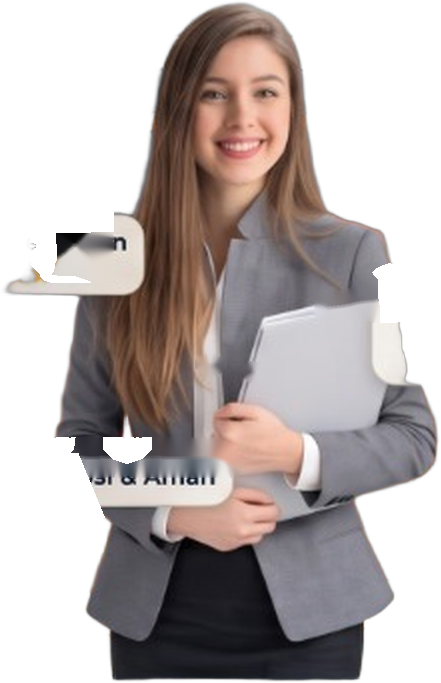
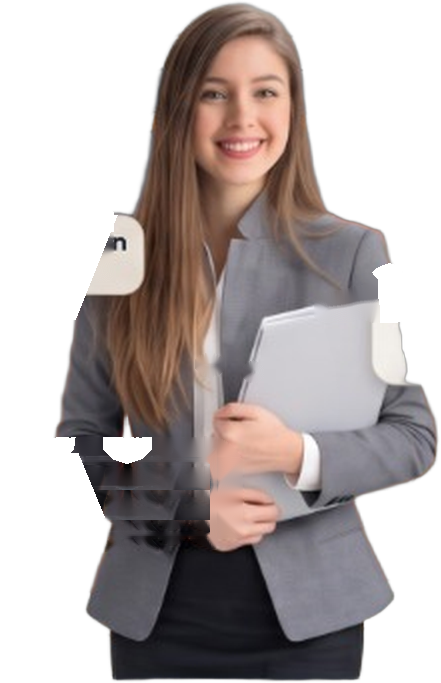
ubah tampilan landing pages full size

Changed region(s): [[0.1769, 0.6457, 0.5306, 0.7994], [0.0, 0.3382, 0.2653, 0.4612]]

diff --git a/resources/views/home/index.blade.php b/resources/views/home/index.blade.php
@@ -12,17 +12,27 @@
             position: relative;
             overflow: hidden;
             background-color: #F5EEE4;
-            padding-top: 24px;
-            padding-bottom: 0;
+            min-height: 100vh;
+            min-height: 100dvh;
+            display: flex;
+            flex-direction: column;
+            justify-content: space-between;
             font-family: 'Plus Jakarta Sans', system-ui, -apple-system, sans-serif;
+            box-sizing: border-box;
         }
 
         .siladata-hero-container {
             position: relative;
             z-index: 10;
-            max-width: 1180px;
+            max-width: 1240px;
+            width: 100%;
             margin: 0 auto;
-            padding: 0 20px;
+            padding: 24px 24px 0 24px;
+            flex: 1 1 auto;
+            display: flex;
+            flex-direction: column;
+            justify-content: space-between;
+            box-sizing: border-box;
         }
 
         /* Floating Pill Navbar */
@@ -104,8 +114,9 @@
             flex-direction: row;
             align-items: flex-end;
             justify-content: space-between;
-            padding-top: 24px;
+            padding-top: 16px;
             width: 100%;
+            flex: 1 1 auto;
         }
 
         .siladata-hero-col-left {
@@ -113,8 +124,8 @@
             flex: 0 0 52%;
             max-width: 52%;
             align-self: center;
-            padding-top: 20px;
-            padding-bottom: 44px;
+            padding-top: 12px;
+            padding-bottom: 32px;
             position: relative;
             z-index: 20;
         }
@@ -131,54 +142,39 @@
             z-index: 10;
         }
 
-        /* Badge */
-        .siladata-badge {
-            display: inline-flex;
-            align-items: center;
-            gap: 8px;
-            border-radius: 9999px;
-            border: 1.5px solid #D8986B;
-            background-color: #F8ECE1;
-            padding: 6px 18px;
-            font-size: 13.5px;
-            font-weight: 600;
-            color: #9A4E23;
-            margin-bottom: 18px;
-        }
-
         /* Headline */
         .siladata-h1 {
-            font-size: 34px;
+            font-size: 38px;
             font-weight: 900;
-            line-height: 1.14;
-            letter-spacing: -0.025em;
+            line-height: 1.12;
+            letter-spacing: -0.03em;
             color: #111C2E;
             margin: 0;
         }
 
         .siladata-h1-accent {
             display: block;
-            margin-top: 4px;
+            margin-top: 6px;
             color: #E87A36;
         }
 
         /* Description */
         .siladata-desc {
-            margin-top: 18px;
-            font-size: 16px;
-            line-height: 1.6;
-            color: #232B38;
+            margin-top: 20px;
+            font-size: 16.5px;
+            line-height: 1.62;
+            color: #2D3748;
             font-weight: 400;
-            max-width: 480px;
+            max-width: 490px;
         }
 
         /* CTA Buttons */
         .siladata-cta-group {
-            margin-top: 28px;
+            margin-top: 30px;
             display: flex;
             flex-wrap: wrap;
             align-items: center;
-            gap: 14px;
+            gap: 16px;
         }
 
         .siladata-btn-dark {
@@ -413,14 +409,14 @@
         /* Left Floating Card: Rating Kepuasan */
         .siladata-card-rating {
             position: absolute;
-            left: -4px;
-            top: 165px;
+            left: 20px;
+            top: 148px;
             z-index: 20;
-            background: rgba(255, 255, 255, 0.97);
+            background: rgba(255, 255, 255, 0.98);
             border-radius: 14px;
-            padding: 8px 14px 9px 14px;
+            padding: 8.5px 14px 9.5px 14px;
             border: 1px solid rgba(255, 255, 255, 0.95);
-            box-shadow: 0 12px 28px -4px rgba(17, 28, 46, 0.12), 0 4px 10px -2px rgba(17, 28, 46, 0.05);
+            box-shadow: 0 14px 30px -4px rgba(17, 28, 46, 0.12), 0 4px 10px -2px rgba(17, 28, 46, 0.05);
             backdrop-filter: blur(8px);
             -webkit-backdrop-filter: blur(8px);
         }
@@ -436,14 +432,14 @@
         /* Left Floating Pill: Data Terenkripsi & Aman */
         .siladata-card-lock {
             position: absolute;
-            left: 10px;
-            bottom: 72px;
+            left: 45px;
+            bottom: 84px;
             z-index: 20;
-            background: rgba(255, 255, 255, 0.97);
+            background: rgba(255, 255, 255, 0.98);
             border-radius: 9999px;
-            padding: 6.5px 16px 6.5px 11px;
+            padding: 7px 16px 7px 12px;
             border: 1px solid rgba(255, 255, 255, 0.95);
-            box-shadow: 0 10px 24px -4px rgba(17, 28, 46, 0.12);
+            box-shadow: 0 12px 26px -4px rgba(17, 28, 46, 0.14);
             display: inline-flex;
             align-items: center;
             gap: 7.5px;
@@ -461,14 +457,14 @@
         /* Right Floating Card: 1.300+ Kampus */
         .siladata-card-kampus {
             position: absolute;
-            right: 4px;
-            bottom: 112px;
+            right: 12px;
+            bottom: 120px;
             z-index: 20;
-            background: rgba(255, 255, 255, 0.97);
+            background: rgba(255, 255, 255, 0.98);
             border-radius: 14px;
-            padding: 8px 13px 9px 13px;
+            padding: 8.5px 14px 9.5px 14px;
             border: 1px solid rgba(255, 255, 255, 0.95);
-            box-shadow: 0 12px 28px -4px rgba(17, 28, 46, 0.12), 0 4px 10px -2px rgba(17, 28, 46, 0.05);
+            box-shadow: 0 14px 30px -4px rgba(17, 28, 46, 0.12), 0 4px 10px -2px rgba(17, 28, 46, 0.05);
             backdrop-filter: blur(8px);
             -webkit-backdrop-filter: blur(8px);
         }
@@ -486,8 +482,9 @@
             position: relative;
             z-index: 25;
             width: 100%;
-            height: 26px;
+            height: 28px;
             background-color: #111C2E;
+            flex-shrink: 0;
         }
 
         /* Subtle Gentle Floating Animation */
@@ -522,7 +519,7 @@
             .siladata-hero-row {
                 flex-direction: row;
                 align-items: flex-end;
-                padding-top: 24px;
+                padding-top: 20px;
             }
             .siladata-hero-col-left {
                 width: 53%;
@@ -543,11 +540,15 @@
         }
 
         @media (min-width: 1024px) {
+            .siladata-hero-section {
+                height: 100vh;
+                height: 100dvh;
+            }
             .siladata-hero-col-left {
                 width: 52%;
                 flex: 0 0 52%;
-                padding-top: 28px;
-                padding-bottom: 50px;
+                padding-top: 16px;
+                padding-bottom: 36px;
             }
             .siladata-hero-col-right {
                 width: 50%;
@@ -555,41 +556,54 @@
                 margin-left: -2%;
             }
             .siladata-stage-box {
-                max-width: 520px;
-                height: 460px;
+                max-width: 560px;
+                height: clamp(480px, 63vh, 550px);
             }
             .siladata-concentric-circles {
-                width: 370px;
-                height: 370px;
+                width: clamp(390px, 52vh, 450px);
+                height: clamp(390px, 52vh, 450px);
+                top: 48%;
+                left: 52%;
             }
             .siladata-woman-img {
-                height: 405px;
+                height: clamp(420px, 57vh, 495px);
+                left: 52%;
+                bottom: 0;
             }
             .siladata-card-rating {
-                left: 0px;
-                top: 180px;
+                left: clamp(14px, 2.5vw, 24px);
+                top: clamp(155px, 22vh, 185px);
             }
             .siladata-card-lock {
-                left: 18px;
-                bottom: 84px;
+                left: clamp(36px, 5vw, 54px);
+                bottom: clamp(75px, 11vh, 98px);
             }
             .siladata-card-kampus {
-                right: 12px;
-                bottom: 130px;
+                right: clamp(10px, 2vw, 18px);
+                bottom: clamp(115px, 16vh, 142px);
             }
             .siladata-stage-top-right {
                 right: 4px;
-                top: 22px;
+                top: clamp(12px, 2.4vh, 24px);
             }
             .siladata-h1 {
-                font-size: 45px;
+                font-size: clamp(44px, 3.8vw, 54px);
+                line-height: 1.1;
             }
             .siladata-h1-line1 {
                 white-space: nowrap;
             }
             .siladata-desc {
-                font-size: 17px;
-                max-width: 485px;
+                font-size: clamp(16px, 1.25vw, 18px);
+                max-width: 510px;
+                line-height: 1.65;
+            }
+        }
+
+        @media (min-width: 1024px) and (max-height: 650px) {
+            .siladata-hero-section {
+                height: auto;
+                min-height: 650px;
             }
         }
 
@@ -608,20 +622,20 @@
             .siladata-card-rating {
                 transform: scale(0.85);
                 transform-origin: top left;
-                top: 140px;
-                left: -8px;
+                top: 115px;
+                left: 8px;
             }
             .siladata-card-lock {
                 transform: scale(0.85);
                 transform-origin: bottom left;
                 bottom: 60px;
-                left: 0px;
+                left: 20px;
             }
             .siladata-card-kampus {
                 transform: scale(0.85);
                 transform-origin: bottom right;
-                bottom: 100px;
-                right: -6px;
+                bottom: 92px;
+                right: 6px;
             }
             .siladata-stage-top-right {
                 transform: scale(0.8);
@@ -638,18 +652,18 @@
     <section class="siladata-hero-section">
         {{-- Background Organic Waves in Soft Sand / Taupe --}}
         <div class="pointer-events-none absolute inset-0 z-0">
-            <svg class="h-full w-full object-cover" viewBox="0 0 1440 640" preserveAspectRatio="none" fill="none">
+            <svg class="h-full w-full object-cover" viewBox="0 0 1440 900" preserveAspectRatio="none" fill="none">
                 <!-- Warm Sand Base -->
-                <rect width="1440" height="640" fill="#F5EEE4" />
+                <rect width="1440" height="900" fill="#F5EEE4" />
 
                 <!-- Top Right Organic Waves Swooshes -->
-                <path d="M860 0C940 100 1140 195 1440 245V0H860Z" fill="#DDD2C4" fill-opacity="0.45" />
-                <path d="M970 0C1050 75 1210 145 1440 180V0H970Z" fill="#D0C3B3" fill-opacity="0.35" />
+                <path d="M840 0C930 140 1140 270 1440 340V0H840Z" fill="#DDD2C4" fill-opacity="0.45" />
+                <path d="M960 0C1045 105 1220 200 1440 250V0H960Z" fill="#D0C3B3" fill-opacity="0.35" />
 
                 <!-- Bottom Left Organic Waves Swooshes -->
-                <path d="M0 380C140 395 280 465 390 640H0V380Z" fill="#E5DCD0" fill-opacity="0.55" />
-                <path d="M0 460C120 470 220 525 300 640H0V460Z" fill="#DDD0C2" fill-opacity="0.45" />
-                <path d="M0 535C90 545 160 580 215 640H0V535Z" fill="#D0C0B0" fill-opacity="0.35" />
+                <path d="M0 520C150 540 310 650 430 900H0V520Z" fill="#E5DCD0" fill-opacity="0.55" />
+                <path d="M0 630C130 645 240 725 330 900H0V630Z" fill="#DDD0C2" fill-opacity="0.45" />
+                <path d="M0 735C95 745 175 795 235 900H0V735Z" fill="#D0C0B0" fill-opacity="0.35" />
             </svg>
         </div>
 
@@ -673,18 +687,8 @@
 
             {{-- Hero 2-Column Content --}}
             <div class="siladata-hero-row">
-                {{-- Left Column: Typography, Badge & CTAs --}}
+                {{-- Left Column: Typography & CTAs --}}
                 <div class="siladata-hero-col-left">
-                    {{-- Badge --}}
-                    <div class="siladata-badge">
-                        <svg style="width: 15px; height: 15px; color: #E87A36; flex-shrink: 0;" viewBox="0 0 24 24" fill="currentColor">
-                            <path d="M10 3L11.8 8.2L17 10L11.8 11.8L10 17L8.2 11.8L3 10L8.2 8.2L10 3Z" />
-                            <path d="M18 2L18.9 4.6L21.5 5.5L18.9 6.4L18 9L17.1 6.4L14.5 5.5L17.1 4.6L18 2Z" />
-                            <circle cx="18" cy="14" r="1.2" />
-                        </svg>
-                        <span>Sesuai Standar Instrumen Akreditasi Terbaru</span>
-                    </div>
-
                     {{-- Headline --}}
                     <h1 class="siladata-h1">
                         <span class="siladata-h1-line1">Sistem Dokumen Akreditasi</span>
@@ -824,7 +828,7 @@
 
                         {{-- 3. Woman / Person Visual Cutout (HANYA INI YANG GAMBAR) --}}
                         <img
-                            src="{{ asset('images/hero-woman-clean.png') }}"
+                            src="{{ asset('images/hero-woman-clean.png') }}?v={{ filemtime(public_path('images/hero-woman-clean.png')) }}"
                             alt="Sistem Dokumen Akreditasi Perguruan Tinggi SILADATA"
                             class="siladata-woman-img"
                         />
